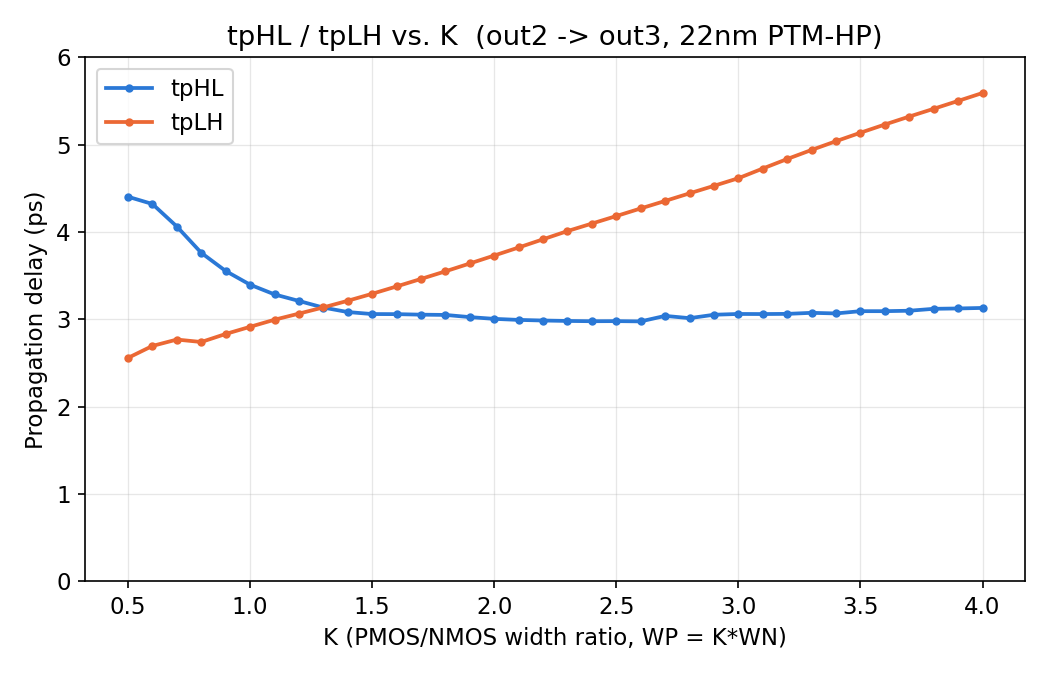
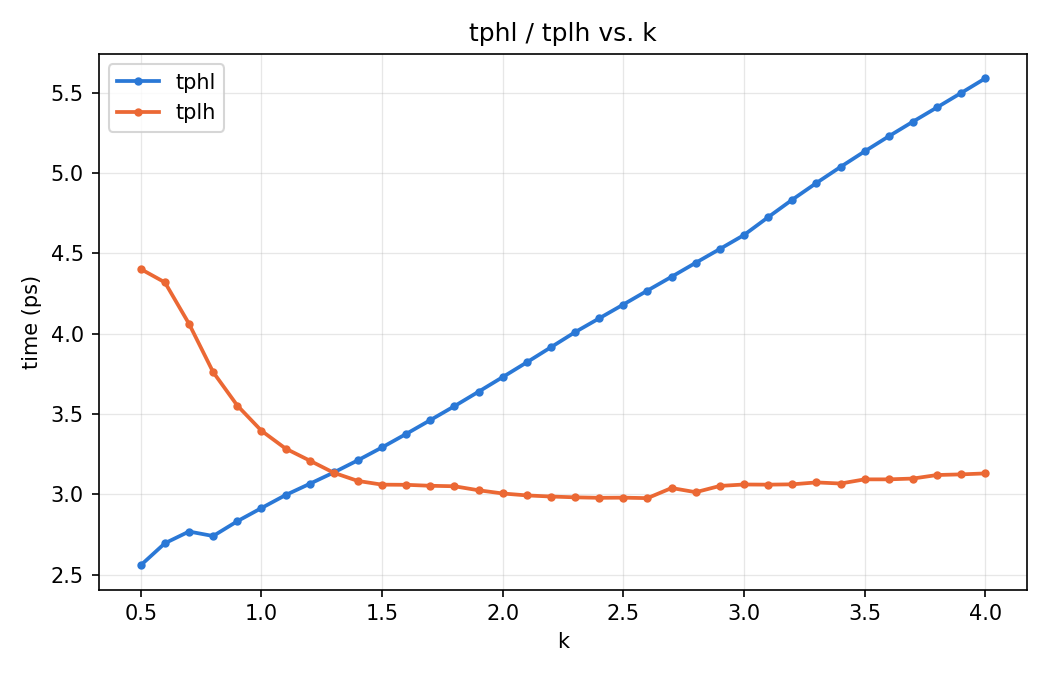
Refresh k-sweep CSV, plots, and lab1.md from corrected results_10p run
results_10p/results.mt0 was re-simulated with the tpHL/tpLH naming
fix (1fde5ab); regenerate the CSV and plots from it via mt0_report.py
and update lab1.md's delay table to match. tr/tf table is unaffected.

Claude-Session: https://claude.ai/code/session_012s4HdYte43AEKKhAtjEaGk

diff --git a/lab1/lab1.md b/lab1/lab1.md
@@ -9,42 +9,42 @@ tpHL / tpLH measured at the 0.4 V (50%) logic threshold.
 
 | K | tpHL (ps) | tpLH (ps) |
 |---|---|---|
-| 0.50 | 4.403 | 2.558 |
-| 0.60 | 4.320 | 2.695 |
-| 0.70 | 4.062 | 2.768 |
-| 0.80 | 3.761 | 2.740 |
-| 0.90 | 3.553 | 2.832 |
-| 1.00 | 3.396 | 2.914 |
-| 1.10 | 3.285 | 2.995 |
-| 1.20 | 3.210 | 3.065 |
-| 1.30 | 3.134 | 3.136 |
-| 1.40 | 3.083 | 3.212 |
-| 1.50 | 3.060 | 3.292 |
-| 1.60 | 3.059 | 3.376 |
-| 1.70 | 3.053 | 3.462 |
-| 1.80 | 3.050 | 3.549 |
-| 1.90 | 3.025 | 3.639 |
-| 2.00 | 3.005 | 3.730 |
-| 2.10 | 2.993 | 3.822 |
-| 2.20 | 2.986 | 3.916 |
-| 2.30 | 2.981 | 4.010 |
-| 2.40 | 2.978 | 4.096 |
-| 2.50 | 2.979 | 4.182 |
-| 2.60 | 2.976 | 4.269 |
-| 2.70 | 3.039 | 4.355 |
-| 2.80 | 3.013 | 4.442 |
-| 2.90 | 3.052 | 4.528 |
-| 3.00 | 3.061 | 4.615 |
-| 3.10 | 3.060 | 4.726 |
-| 3.20 | 3.062 | 4.835 |
-| 3.30 | 3.074 | 4.939 |
-| 3.40 | 3.067 | 5.039 |
-| 3.50 | 3.093 | 5.136 |
-| 3.60 | 3.093 | 5.230 |
-| 3.70 | 3.098 | 5.321 |
-| 3.80 | 3.120 | 5.410 |
-| 3.90 | 3.124 | 5.500 |
-| 4.00 | 3.130 | 5.591 |
+| 0.50 | 2.558 | 4.403 |
+| 0.60 | 2.695 | 4.320 |
+| 0.70 | 2.768 | 4.062 |
+| 0.80 | 2.740 | 3.761 |
+| 0.90 | 2.832 | 3.553 |
+| 1.00 | 2.914 | 3.396 |
+| 1.10 | 2.995 | 3.285 |
+| 1.20 | 3.065 | 3.210 |
+| 1.30 | 3.136 | 3.134 |
+| 1.40 | 3.212 | 3.083 |
+| 1.50 | 3.292 | 3.060 |
+| 1.60 | 3.376 | 3.059 |
+| 1.70 | 3.462 | 3.053 |
+| 1.80 | 3.549 | 3.050 |
+| 1.90 | 3.639 | 3.025 |
+| 2.00 | 3.730 | 3.005 |
+| 2.10 | 3.822 | 2.993 |
+| 2.20 | 3.916 | 2.986 |
+| 2.30 | 4.010 | 2.981 |
+| 2.40 | 4.096 | 2.978 |
+| 2.50 | 4.182 | 2.979 |
+| 2.60 | 4.269 | 2.976 |
+| 2.70 | 4.355 | 3.039 |
+| 2.80 | 4.442 | 3.013 |
+| 2.90 | 4.528 | 3.052 |
+| 3.00 | 4.615 | 3.061 |
+| 3.10 | 4.726 | 3.060 |
+| 3.20 | 4.835 | 3.062 |
+| 3.30 | 4.939 | 3.074 |
+| 3.40 | 5.039 | 3.067 |
+| 3.50 | 5.136 | 3.093 |
+| 3.60 | 5.230 | 3.093 |
+| 3.70 | 5.321 | 3.098 |
+| 3.80 | 5.410 | 3.120 |
+| 3.90 | 5.500 | 3.124 |
+| 4.00 | 5.591 | 3.130 |
 
 ## 2. Rise / fall time: tr, tf
 
